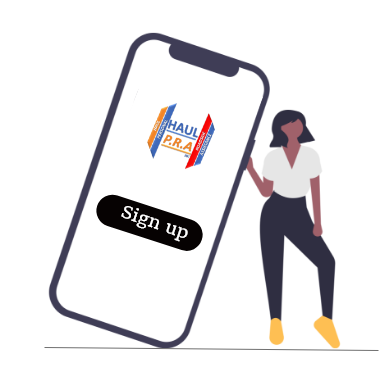
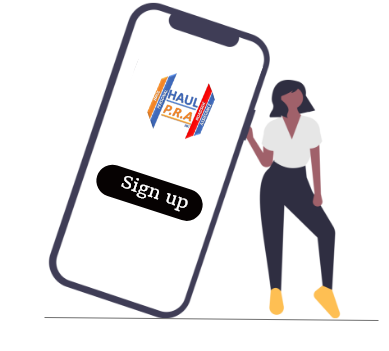
Complete welcome pages design

diff --git a/lib/ui/shared/welcome_page_structure.dart b/lib/ui/shared/welcome_page_structure.dart
@@ -1,13 +1,14 @@
 import 'package:flutter/material.dart';
+import 'package:haul_pra/constants/constants.dart';
 import 'package:haul_pra/ui/shared/project_name.dart';
 import 'package:haul_pra/ui/shared/shared.dart';
 
 class WelcomePageStructure extends StatelessWidget {
-  final int dotIndex;
+  final int pageIndex;
   final String text;
   final String assetPath;
 
-  const WelcomePageStructure(this.dotIndex, this.text, this.assetPath);
+  const WelcomePageStructure(this.pageIndex, this.text, this.assetPath);
 
   @override
   Widget build(BuildContext context) {
@@ -18,14 +19,32 @@ class WelcomePageStructure extends StatelessWidget {
           child: Column(
             mainAxisAlignment: MainAxisAlignment.center,
             children: [
+              Spacer(flex: 2),
               ProjectName(32, Colors.black),
+              SizedBox(height: 24.0),
               Image.asset(assetPath),
-              Regular18Black(text),
-              Dots(3, dotIndex),
+              Regular18Black(text, textAlign: TextAlign.center),
+              Spacer(flex: 1),
+              Dots(3, pageIndex),
+              SizedBox(height: 12.0),
+              RoundedCornerButton(
+                Strings.SKIP,
+                _onSkipButtonPressed,
+                Colors.white,
+                Colors.black,
+                isOutlined: true,
+                fontSize: 20.0,
+                padding: EdgeInsets.symmetric(horizontal: 56.0, vertical: 14.0),
+              ),
+              SizedBox(height: 40.0),
             ],
           ),
         ),
       ),
     );
+  }
+  
+  _onSkipButtonPressed() {
+    print("Hello from page $pageIndex");
   }
 }

diff --git a/lib/ui/shared/rounded_corner_button.dart b/lib/ui/shared/rounded_corner_button.dart
@@ -1,0 +1,38 @@
+import 'package:flutter/material.dart';
+
+class RoundedCornerButton extends StatelessWidget {
+  final String text;
+  final VoidCallback onPressed;
+  final Color buttonColor;
+  final Color textColor;
+  final double fontSize;
+  final bool isOutlined;
+  final EdgeInsets? padding;
+
+  const RoundedCornerButton(this.text, this.onPressed, this.buttonColor, this.textColor, {this.fontSize=18.0, this.isOutlined=false, this.padding});
+
+  @override
+  Widget build(BuildContext context) {
+    return ElevatedButton(
+      style: ElevatedButton.styleFrom(
+        elevation: 8.0,
+        padding: padding == null ? EdgeInsets.symmetric(horizontal: 26.0, vertical: 10.0) : padding,
+        primary: buttonColor,
+        shape: RoundedRectangleBorder(
+          borderRadius: BorderRadius.circular(30.0),
+          side: isOutlined ? BorderSide(color: Colors.black) : BorderSide.none,
+        ),
+      ),
+      child: Text(
+        text,
+        style: TextStyle(
+          fontSize: fontSize,
+          color: textColor,
+          fontWeight: FontWeight.w500,
+        ),
+        maxLines: 1,
+      ),
+      onPressed: onPressed,
+    );
+  }
+}

diff --git a/lib/constants/strings.dart b/lib/constants/strings.dart
@@ -8,4 +8,5 @@ class Strings {
   static const String PAGE1 = "Start by creating an account to benefit from all the features of Haulpra App";
   static const String PAGE2 = "Start looking for service that matches your need by providing details oof your vehicle";
   static const String PAGE3 = "Now take advantage of the different services we offer you and enjoy a smarter search";
+  static const String SKIP = "Skip";
 }

diff --git a/lib/ui/shared/shared.dart b/lib/ui/shared/shared.dart
@@ -3,3 +3,4 @@ export 'text_widgets.dart';
 export 'project_name.dart';
 export 'welcome_page_structure.dart';
 export 'dots.dart';
+export 'rounded_corner_button.dart';
